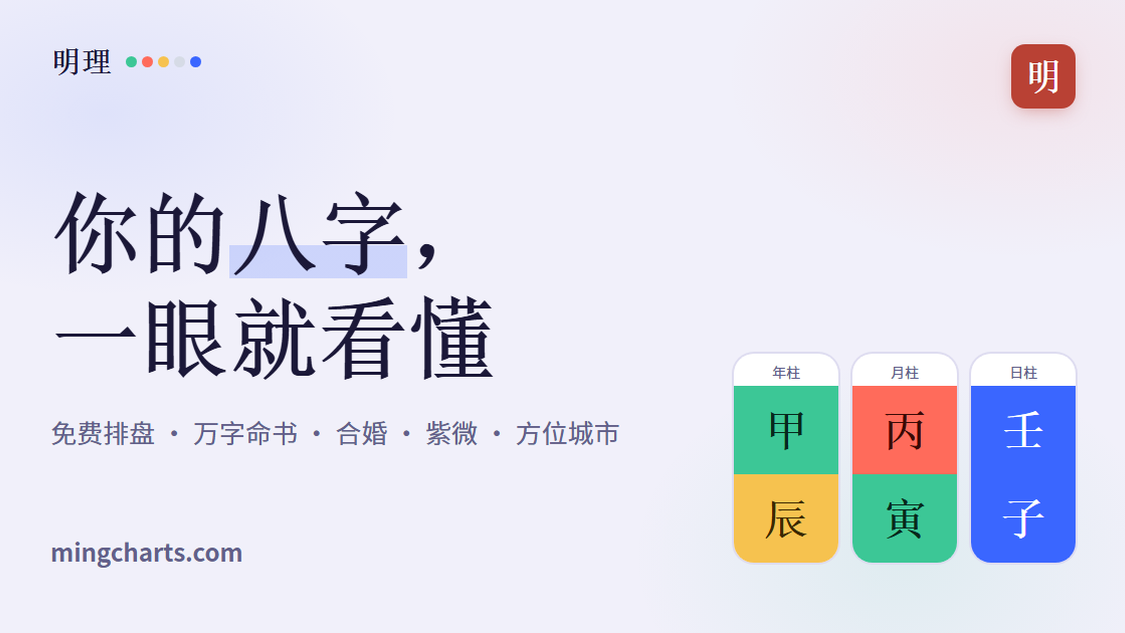
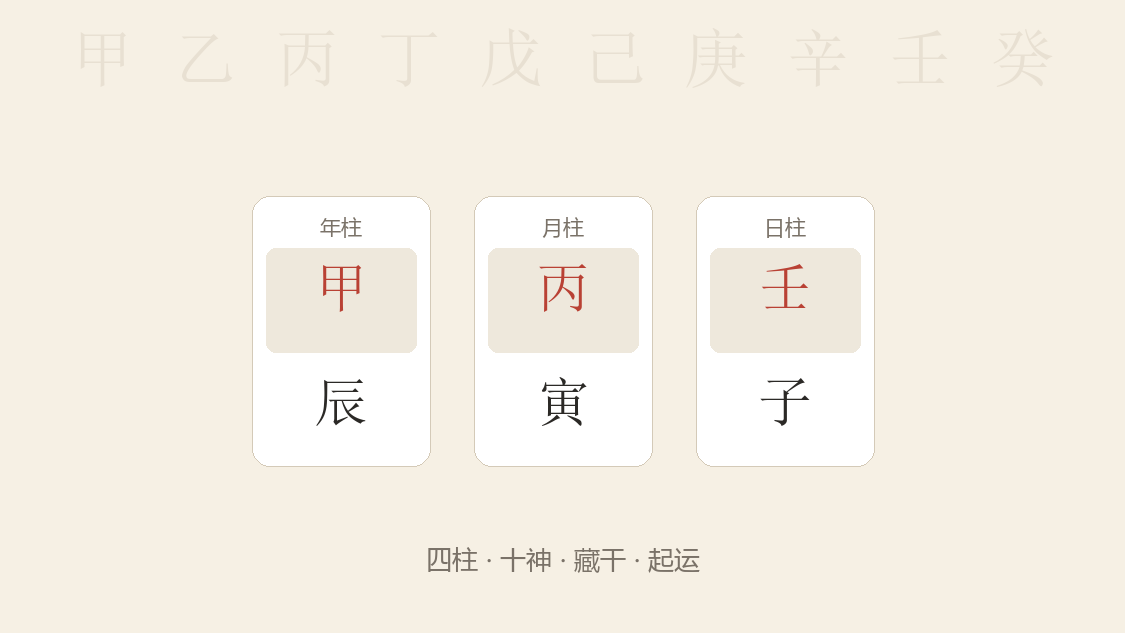
docs(brand): 笔记 v5 —— 修正判罚判断（真正违规的是图1封面与图3十卷），全面去引流元素
用户核对后更正：被判违规的是【图1 封面】与【图3 十卷目录】，不是产品截图。
我上一版归因错了（把网页截图当成主因），特此修正。

真实违规点：
  ① 封面右下角印了 mingcharts.com → 域名本身就是「引导前往其他平台」的最直接证据
  ② 十卷目录整张产品结构表 → 「对其他平台产品/付费内容进行介绍」
  教训：文字里没网址 ≠ 安全。图文分开审、合并判，图片上的域名同样致命。

连带发现（更危险）：主页背景图旧版同时含「免费排盘/万字命书/…」+ mingcharts.com，
挂在主页永久可见、踩三条 —— 已重做为：淡天干纹理 + 三柱牌 + 一行「四柱·十神·藏干·起运」。

改动：
- 01-cover.png 重做：去掉域名、去掉「十卷体例」这类产品结构副标
- 03-steps.png（新）替代 03-volumes.png：「批一份命的工序」六步（看月令→定格局→取用神→
  论调候→查刑冲合害→落大运流年）——方法论，不是产品
- 02-product.png 与 03-volumes.png 从仓库删除（前者含「排盘永久免费」等文案与整页 UI，后者已判违规）
- 正文 v5：把「十卷要铺开 / 十卷体例固定下来」改为「一样一样讲清楚，不能漏项 / 按固定的工序走」
- 文案 md 重写：违规点对照、三图说明、背景图说明、操作顺序、二次审核仍限流的退路

★ 若二次审核仍限流，说明触发的是「引擎/写报告」这类内容本身，退路是删笔记、只留主页，
  身份证明改用官网表单里的自我介绍。

diff --git a/docs/品牌/xhs-note1-文案.md b/docs/品牌/xhs-note1-文案.md
@@ -1,44 +1,42 @@
-# 小红书第一条笔记（2026-10-23 · v4 合规版）
+# 小红书第一条笔记（2026-10-23 · v5）
 
-> **背景**：v3 发布后被判「笔记存在推广其他平台的内容」→ 限流（限制推荐与搜索），
-> 同时触发「账号存在安全风险」→ 账号冻结，实名后解除。
-> 本文件记录：违规原因、v4 修改方案、账号恢复期纪律、以及由此得出的平台策略调整。
->
-> 配图：**01-cover.png / 02b-classics.png / 03-volumes.png**（1080×1440，按此顺序）
-> ★ 原 02-product.png（整页网页截图）**已废弃，不得再用**。
+> **状态**：v3 发布后判「推广其他平台内容」→ 限流；账号触发安全风险 → 冻结，实名已解除。
+> **用户核对后的准确判罚**：违规的是 **图 1（封面）与图 3（十卷目录）**，不是产品截图。
+> 本文件是修正后的 v5。
 
 ---
 
-## 一、被判违规的具体位置（对照平台给的理由）
+## 一、真正的违规点（用户核对后更正）
 
-| 平台规则 | 对应我们文案/图片 | 结论 |
+| 违规图 | 里面的东西 | 对应规则 |
 |---|---|---|
-| 文本违规：「存在尝试引导他人前往其他平台进行搜索、浏览或查看的行为」 | **「排盘免费，不用注册。」** | 这句话就是一个明确的"去站外用"指令，比网址更直接 |
-| 图片违规：规则 1「存在展示其他平台界面信息的行为」 | **02 产品截图**（整页网页 UI） | 一张网页截图 = 其他平台界面 |
-| 图片/文本：规则 3「通过种草、科普、教程等方式为其他平台宣传介绍」 | 「同行想用这套体例出报告，也可以找我」 | 招揽性质 |
-| 规则 5「对其他平台的产品、服务、付费内容进行推荐」 | 同上（付费报告属站外付费内容） | — |
+| **01 封面** | 右下角 **`mingcharts.com`** | 「引导他人前往其他平台查看」——域名是我主动印上去的 |
+| **03 十卷目录** | 「万字命书的十卷」整张产品结构表 | 规则 5「对其他平台产品/付费内容进行介绍」 |
 
-**根因**：我反复强调"不要放网址"，却漏了「免费 / 不用注册」本身就是引流 ——
-它给了对方一个动作，比网址更难辩解。
+★ **教训**：我一直强调"不要放网址"，却在**图片里印了域名**。文字里没有网址不等于安全——
+图片上的域名同样是最直接的引流证据，而且图文分开审、合并判。
+
+★ **连带问题（更危险）**：个人主页背景图 `xhs-banner-1125x633.png` 旧版含
+「免费排盘 · 万字命书 · 合婚 · 紫微 · 方位城市」+ `mingcharts.com` ——
+挂在主页永久可见，同时踩三条。**已重做，必须换掉。**
 
 ---
 
-## 二、v4 正文（已删掉三处违规内容）
+## 二、v5 正文（删掉「十卷」这类产品结构描述）
 
 ```
 我是命理师，也是这套引擎的作者。
 
-一件事做了几年，最耗时间的从来不是看盘——
-是把看出来的东西写成一份万字命书。
+最耗时间的从来不是看盘，是把看出来的东西写下来。
 
-格局、调候、用神、大运流年、事业婚姻子女健康，十卷要铺开；
-每条断语还得说得清依据，出自哪本书哪一句。
-一份三小时，连写三份就写不动了，而且越写越容易漏。
+格局、调候、用神、大运流年、事业婚姻子女健康，
+一样一样讲清楚，不能漏项；每条断语还得说得清依据，出自哪本书哪一句。
+一份写完三小时，连写三份就写不动了，而且越写越容易漏。
 
 所以我自己写了个引擎：
 四柱、十神、藏干、起运按真太阳时算清楚；
-十卷体例固定下来，不会漏项；
-每条断语标注所引经典，回头能查。
+按固定的工序走，不会漏项；
+每条断语记下依据，回头能查。
 
 现在我十分钟出初稿，剩下的时间全花在两件事上：
 核对我不同意的断语、补这个盘特有的那几句话。
@@ -48,59 +46,61 @@
 你们批一份命书，最容易漏的是哪一部分？
 ```
 
-**删掉的**：`排盘免费，不用注册。` / `同行想用这套体例出报告，也可以找我。`
-**改掉的**：结尾从「招揽」变成「提问」。
+改动（对比 v4）：
+- 「十卷要铺开」→「一样一样讲清楚，不能漏项」（**去掉产品结构词**）
+- 「十卷体例固定下来」→「按固定的工序走」
+- 其余不动：无域名、无「免费」、无「注册」、无「找我」
 
-**保留的**：引擎、十卷、真太阳时、标注出处 —— 这些是**方法论描述**，不是导流。
-（仍在灰区边缘：描述自己的站外工具仍可能被规则 3 沾到。若二次审核仍限流，只能删。）
+## 三、三张图（全部无域名、无产品结构）
 
-## 三、替换图（02b-classics.png）
+| 顺序 | 文件 | 内容 | 为什么安全 |
+|---|---|---|---|
+| 1 | `01-cover.png` | 「我是命理师 / 也是写这引擎的人」+「不是我算得更准，是我不容易漏」+ 三柱牌 | 无域名、无产品名、无「免费」 |
+| 2 | `02b-classics.png` | 两条古籍原文：八字用神专求月令（《子平真诠》）／何知其人富财气通门户（《滴天髓》） | 纯知识引用 |
+| 3 | `03-steps.png` | 「批一份命的工序」六步：看月令→定格局→取用神→论调候→查刑冲合害→落大运流年 | 方法论，不是产品 |
 
-原来那张网页截图换成「两条立命之基」古籍卡：
+**已废弃、不得再用**：`02-product.png`（网页截图，含「排盘永久免费」等文案）、
+`03-volumes.png`（十卷目录，实际被判违规）。
+
+## 四、背景图（已重做）
+
+新版 `xhs-banner-1125x633.png`：极淡十天干纹理 + 三柱牌 + 一行「四柱 · 十神 · 藏干 · 起运」。
+**无域名、无「免费」、无产品名、无服务列表。**
+
+## 五、操作顺序
 
 ```
-八字用神，专求月令。          ——《子平真诠》沈孝瞻
-何知其人富，财气通门户。      ——《滴天髓》
+1. 换背景图（主页背景 → 上传新版）
+2. 笔记 → 修改笔记 → 换三张图 + 换正文 → 提交
+3. 不要申诉
+4. 三天内不再动号：不改资料、不发第二条、不私信
+5. 联系伙伴走对方官网表单/邮件（小红书只当身份页）
 ```
 
-为什么换它：
-- 纯内容，无界面、无产品名、无使用引导
-- 对同行反而更有价值（两句都是判断时的第一原则）
-- 承接正文那句「不是我不够仔细，是原则没兑现」
+## 六、如果二次审核仍然限流
 
-## 四、账号恢复期纪律（重要）
+说明触发的是「引擎/写报告」这类内容本身，而不是具体字眼。退路：
 
-```
-✗ 不要申诉 —— 判对了，申诉会被驳，还可能加深审核印象
-✓ 点「修改笔记」改内容，走二次审核
-✗ 三天内不要再动号：不改资料、不发第二条、不私信
-✓ 正常浏览、点赞、收藏别人的内容，让它像真人
-```
+1. 把笔记删掉，只留主页（头像+昵称+简介+背景图），**不再发内容**
+2. 需要身份证明时，用官网表单里的自我介绍代替（"我是 mingcharts 的开发者，做了 X 年命理"）
 
-**第二次违规代价远高于第一次**（可能禁言/封号）。现在这个号背着一条违规记录，
-后续任何"引流"嫌疑都会从重处理。
-
-## 五、由这件事得出的策略调整
+## 七、平台策略（继续有效）
 
 **小红书从「获客渠道」降级为「身份页」。**
 
-原因：命理内容本身敏感 + 站外产品 = 双重风险，每发一条都在走钢丝；
-而我们要它做的只是一件事——**让对方点进主页时，知道这是个真人、懂行、在做产品**。
-
-所以：
-
-1. **不再为小红书生产内容**（除偶尔一条纯知识分享）
-2. **联系伙伴改走对方官网表单/邮件**（首选），而不是靠平台内私信
-3. 私信仍可用，但**只发文字、不发链接、不发图片、不提"免费/注册"**
-4. 若以后要做内容矩阵，考虑公众号/知乎（对命理类内容更宽松），小红书不做主战场
+- 不再为它生产内容（除偶尔纯知识分享）
+- 联系伙伴走对方官网表单/邮件
+- 平台内私信只发文字：不发链接、不发图片、不提「免费/注册」
+- 若要做内容矩阵，考虑公众号/知乎（对命理内容更宽松）
 
 ---
 
-## 附：原 v1-v3 定位演进（保留供参考）
+## 附：定位演进（v1-v5）
 
 | 版本 | 说法 | 问题 |
 |---|---|---|
 | v1 | 「书能看懂，盘看不懂」 | 把作者写成新手；不属实 |
 | v2 | 「我不是命理师，是产品经理」 | 假话——作者本来就是命理师 |
-| v3 | 「我是命理师，也是写这引擎的人」 | 定位正确，但文案含引流句 → 违规 |
-| **v4** | 同 v3 定位，删掉全部引流句 | 当前版本 |
+| v3 | 「我是命理师，也是写这引擎的人」 | 定位对，但图文含引流 → 违规限流 |
+| v4 | 同 v3，删文字里的引流句 | 漏了图片里的域名与十卷表 |
+| **v5** | 同 v3 定位，图文全面去引流元素 | 当前版本 |
